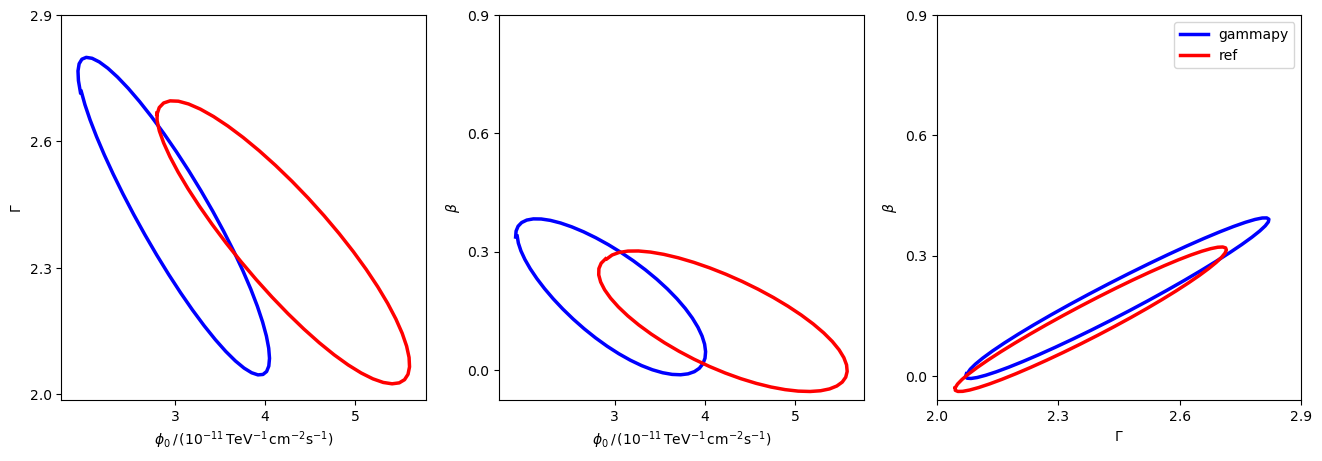
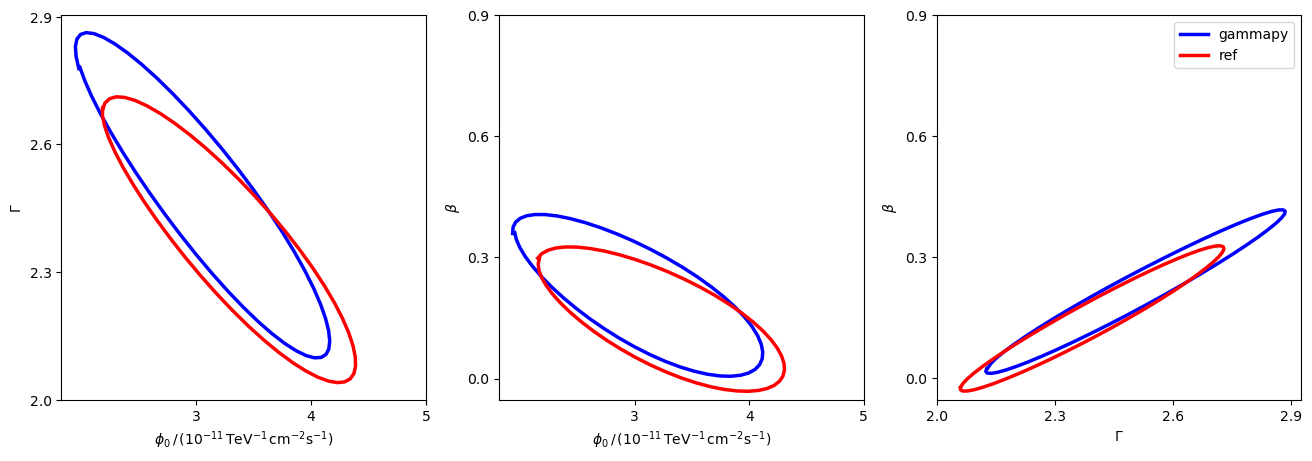
Include comparison with corrected Fermi results for joint-crab

diff --git a/validation/joint-crab/joint_crab/extract_fermi.py b/validation/joint-crab/joint_crab/extract_fermi.py
@@ -22,7 +22,6 @@ class FermiDatasetMaker:
                  evt_file="$JOINT_CRAB/data/fermi/events.fits.gz",
                  exp_file="$JOINT_CRAB/data/fermi/exposure_cube.fits.gz",
                  psf_file="$JOINT_CRAB/data/fermi/psf.fits.gz",
-                 max_psf_radius='0.5 deg'
                 ):
         # Read data
         self.events = EventList.read(evt_file)
@@ -62,7 +61,7 @@ class FermiDatasetMaker:
         
         # recompute exposure on geom
         coords = geom.get_coord()
-        values = self.exposure.interp_by_coord(coords)
+        values = self.exposure.get_by_coord(coords)
         dataset.exposure = Map.from_geom(geom, data=values, unit=self.exposure.unit)
 
         # Not the real Fermi-LAT EDISP: Use 5% energy resolution as approximation
@@ -77,7 +76,7 @@ class FermiDatasetMaker:
 def extract_spectrum_fermi(on_region, off_region, energy, containment_correction):
     """Perform the spectral extraction at target_position for a circular region."""
     
-    geom = WcsGeom.create(skydir=on_region.center,width='5 deg', binsz=0.01, axes=[energy])
+    geom = WcsGeom.create(skydir=on_region.center,width='4 deg', binsz=0.02, frame='galactic', axes=[energy])
         
     ds = FermiDatasetMaker().run(geom)
     
@@ -85,6 +84,7 @@ def extract_spectrum_fermi(on_region, off_region, energy, containment_correction
         on_region,
         containment_correction=containment_correction
     )
+
     on_mask=ds.counts.geom.region_mask([on_region]) 
     on_solid_angle = np.sum(ds.counts.geom.solid_angle()*on_mask)
     
@@ -92,6 +92,7 @@ def extract_spectrum_fermi(on_region, off_region, energy, containment_correction
         off_region,
         containment_correction=False
     )
+    
     off_mask=ds.counts.geom.region_mask([off_region]) 
     off_solid_angle = np.sum(ds.counts.geom.solid_angle()*off_mask)
 

diff --git a/validation/joint-crab/make.py b/validation/joint-crab/make.py
@@ -69,7 +69,7 @@ instrument_opts = dict(
             'color': "#3EB489",},
     fermi = {'on_radius':'0.3 deg', 
             'stack':False, 
-            'containment'True,
+            'containment':True,
             'emin':'0.03 TeV', 
             'emax':'2 TeV',
             'color': "#21ABCD",},
@@ -161,7 +161,7 @@ def data_reduction_fermi():
     emin = u.Quantity(instrument_opts['fermi']['emin']).to_value('TeV')
     emax = u.Quantity(instrument_opts['fermi']['emax']).to_value('TeV')
 
-    crab_pos = SkyCoord(ra=83.63, dec=22.01, unit='deg', frame='icrs')
+    crab_pos = SkyCoord(83.63, 22.01, unit='deg', frame='icrs')
     on_region = CircleSkyRegion(crab_pos,radius=Angle(radius))
     off_region = CircleAnnulusSkyRegion(crab_pos,inner_radius=1*u.deg, outer_radius=2*u.deg)    
 
@@ -231,8 +231,6 @@ def data_fitting(instrument, npoints):
     for ds in datasets:
         ds.models = crab_model
         ds.mask_fit = ds.counts.energy_mask(e_min, e_max)
-        print(ds.mask_fit)
-        print(ds.energy_range)
     # Perform fit
     fit = Fit(datasets)
     result = fit.run()

diff --git a/validation/joint-crab/results/fit_fermi.rst b/validation/joint-crab/results/fit_fermi.rst
@@ -1,8 +1,8 @@
 ========= ========= ========= ============== === === ======
      name     value     error           unit min max frozen
 ========= ========= ========= ============== === === ======
-amplitude 2.871e-11 7.325e-12 cm-2 s-1 TeV-1 nan nan  False
+amplitude 2.938e-11 7.304e-12 cm-2 s-1 TeV-1 nan nan  False
 reference 1.000e+00 0.000e+00            TeV nan nan   True
-    alpha 2.430e+00 2.483e-01                nan nan  False
-     beta 8.075e-02 5.843e-02                nan nan  False
+    alpha 2.487e+00 2.433e-01                nan nan  False
+     beta 8.959e-02 5.772e-02                nan nan  False
 ========= ========= ========= ============== === === ======

diff --git a/validation/joint-crab/results/fermi_comparison_table.md b/validation/joint-crab/results/fermi_comparison_table.md
@@ -14,8 +14,8 @@
    </thead>
    <tr>
     <td>amplitude</td>
-    <td>4.044e-11 ± 1.009e-11</td>
-    <td>2.871e-11 ± 7.325e-12</td>
+    <td>3.160e-11 ± 7.870e-12</td>
+    <td>2.938e-11 ± 7.304e-12</td>
    </tr>
    <tr>
     <td>reference</td>
@@ -24,13 +24,13 @@
    </tr>
    <tr>
     <td>alpha</td>
-    <td>2.372e+00 ± 2.389e-01</td>
-    <td>2.430e+00 ± 2.483e-01</td>
+    <td>2.388e+00 ± 2.386e-01</td>
+    <td>2.487e+00 ± 2.433e-01</td>
    </tr>
    <tr>
     <td>beta</td>
-    <td>1.365e-01 ± 1.274e-01</td>
-    <td>1.859e-01 ± 1.345e-01</td>
+    <td>1.445e-01 ± 1.273e-01</td>
+    <td>2.063e-01 ± 1.329e-01</td>
    </tr>
   </table>
  </body>

diff --git a/validation/joint-crab/results/fermi_summary.md b/validation/joint-crab/results/fermi_summary.md
@@ -14,8 +14,8 @@
    </thead>
    <tr>
     <td>amplitude</td>
-    <td>4.044e-11 ± 1.009e-11</td>
-    <td>2.871e-11 ± 7.325e-12</td>
+    <td>3.160e-11 ± 7.870e-12</td>
+    <td>2.938e-11 ± 7.304e-12</td>
    </tr>
    <tr>
     <td>reference</td>
@@ -24,13 +24,13 @@
    </tr>
    <tr>
     <td>alpha</td>
-    <td>2.372e+00 ± 2.389e-01</td>
-    <td>2.430e+00 ± 2.483e-01</td>
+    <td>2.388e+00 ± 2.386e-01</td>
+    <td>2.487e+00 ± 2.433e-01</td>
    </tr>
    <tr>
     <td>beta</td>
-    <td>1.365e-01 ± 1.274e-01</td>
-    <td>1.859e-01 ± 1.345e-01</td>
+    <td>1.445e-01 ± 1.273e-01</td>
+    <td>2.063e-01 ± 1.329e-01</td>
    </tr>
   </table>
  </body>
